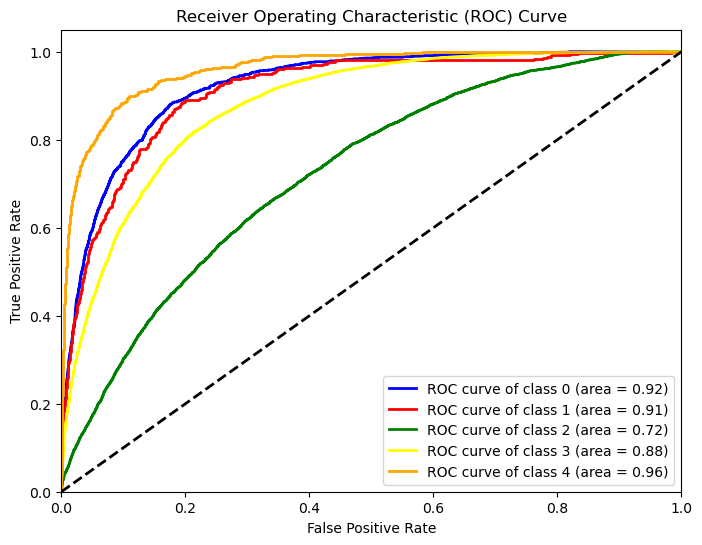
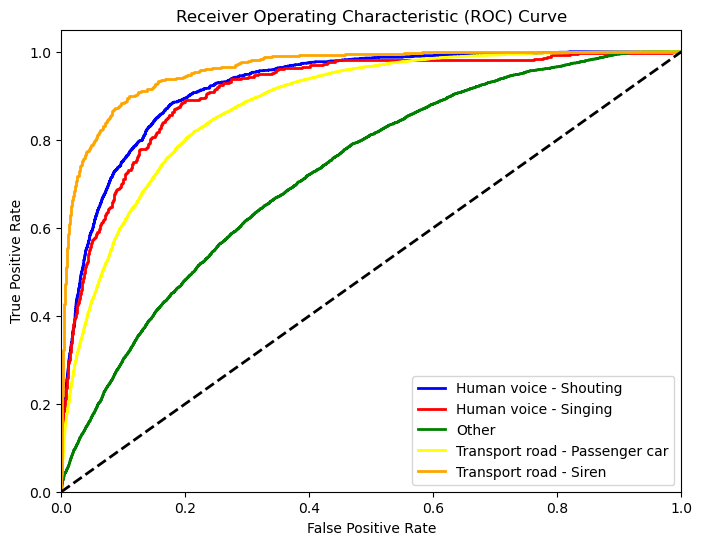
fixed ROC curve figure

Changed region(s): [[0.5385, 0.6862, 0.9573, 0.8734]]

diff --git a/best_model.py b/best_model.py
@@ -139,6 +139,12 @@ y_pred_proba = pipeline.predict_proba(X_test)
 n_classes = 5
 true_labels = y_test 
 
+label = {
+    'Number': [0, 1, 2, 3, 4],
+    'String': ['Human voice - Shouting', 'Human voice - Singing', 'Other', 'Transport road - Passenger car', 'Transport road - Siren']
+}
+df_label = pd.DataFrame(label)
+
 # Binarize the true labels
 binarized_labels = label_binarize(true_labels, classes=np.unique(true_labels))
 
@@ -153,10 +159,10 @@ for i in range(n_classes):
 
 # Plot ROC curve for each class
 plt.figure(figsize=(8, 6))
-colors = ['blue', 'red', 'green', 'yellow', 'orange'] 
+colors = ['blue', 'red', 'green', 'yellow', 'orange']
 
 for i, color in zip(range(n_classes), colors):
-    plt.plot(fpr[i], tpr[i], color=color, lw=2, label='ROC curve of class {0} (area = {1:0.2f})'.format(i, roc_auc[i]))
+    plt.plot(fpr[i], tpr[i], color=color, lw=2, label='{0}'.format(df_label['String'][i], roc_auc[i]))
 
 plt.plot([0, 1], [0, 1], 'k--', lw=2)  # Plot diagonal line for reference
 plt.xlim([0.0, 1.0])
@@ -165,8 +171,8 @@ plt.xlabel('False Positive Rate')
 plt.ylabel('True Positive Rate')
 plt.title('Receiver Operating Characteristic (ROC) Curve')
 plt.legend(loc="lower right")
-plt.savefig('assets/ROC_curves.png',bbox_inches='tight')
-plt.close() 
+plt.savefig('assets/ROC_curves.png', bbox_inches='tight')
+plt.close()
 
 
 
